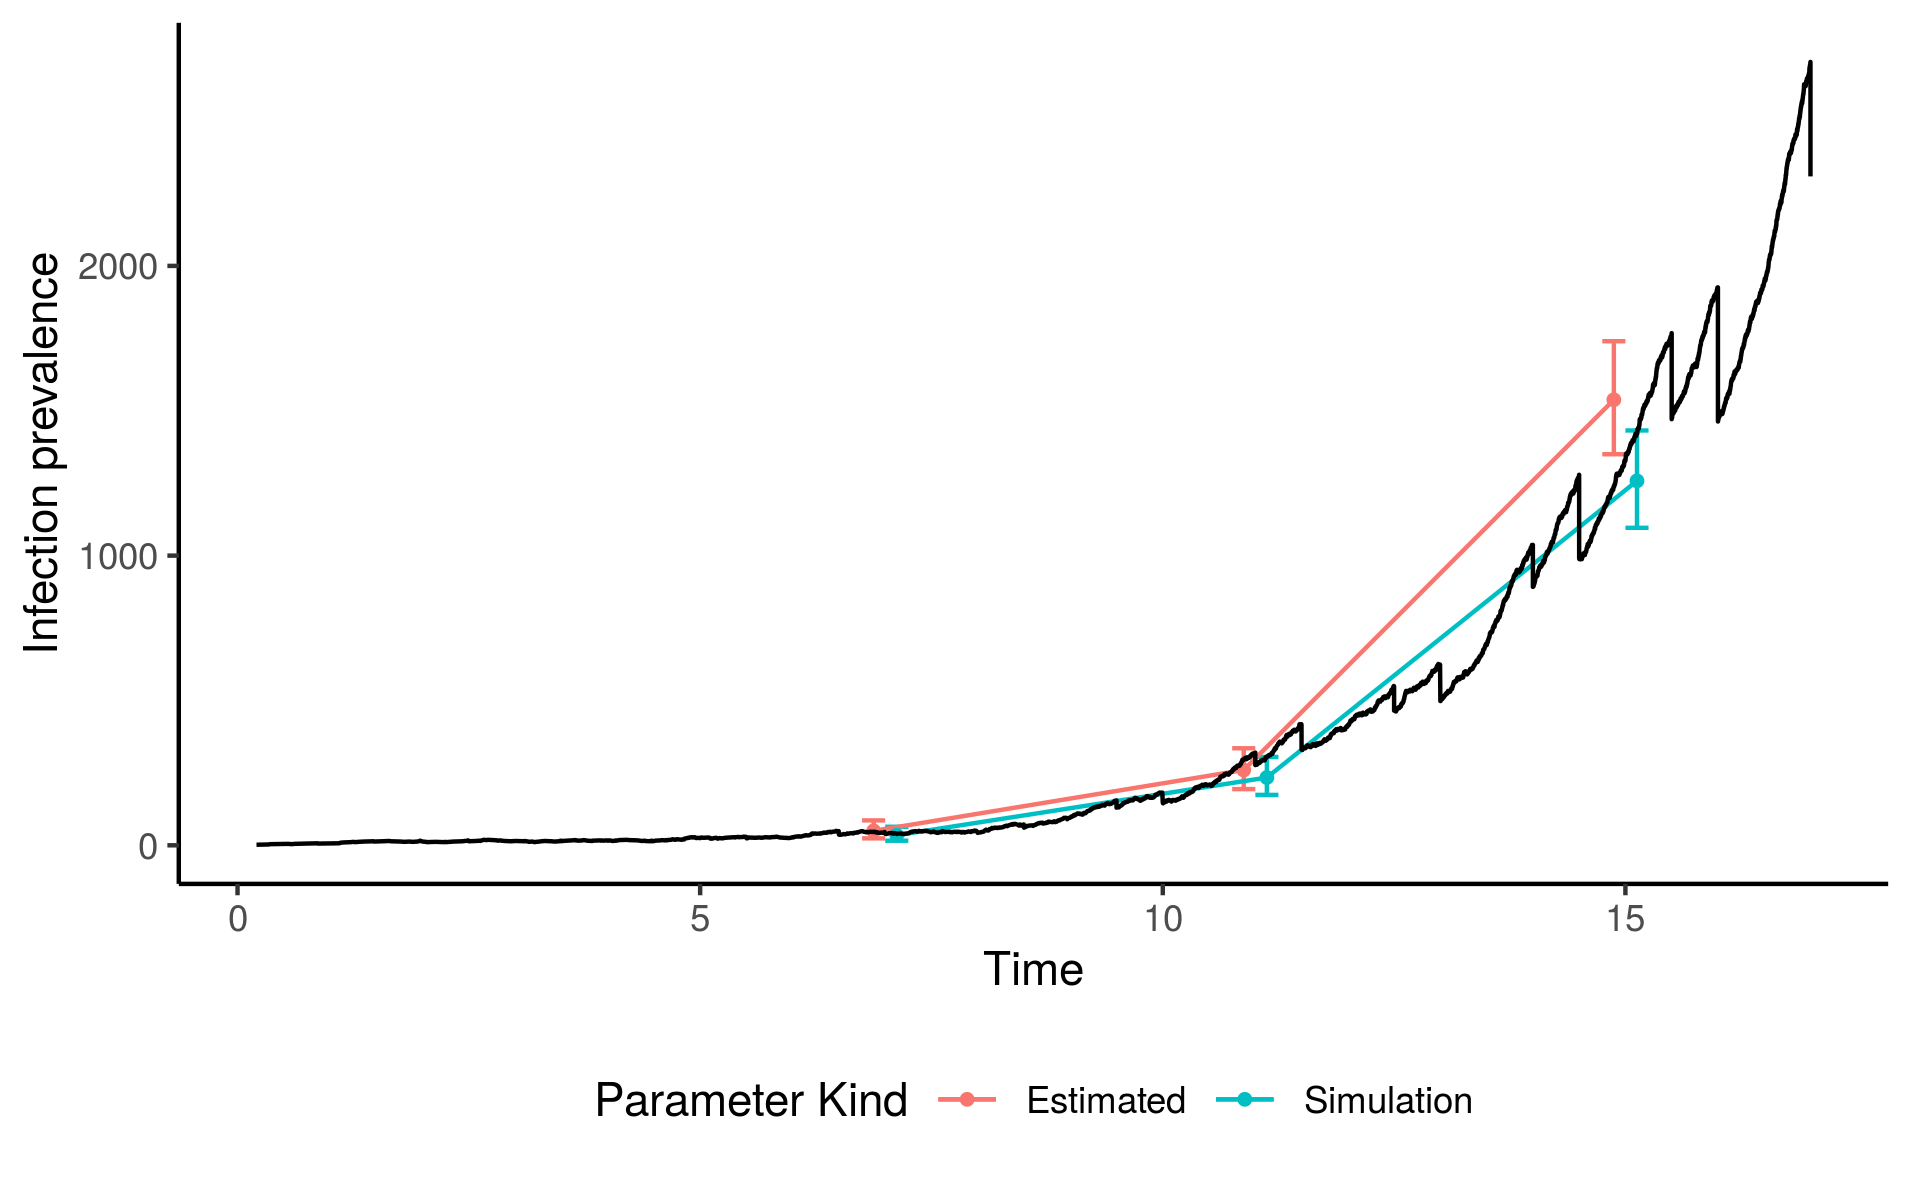
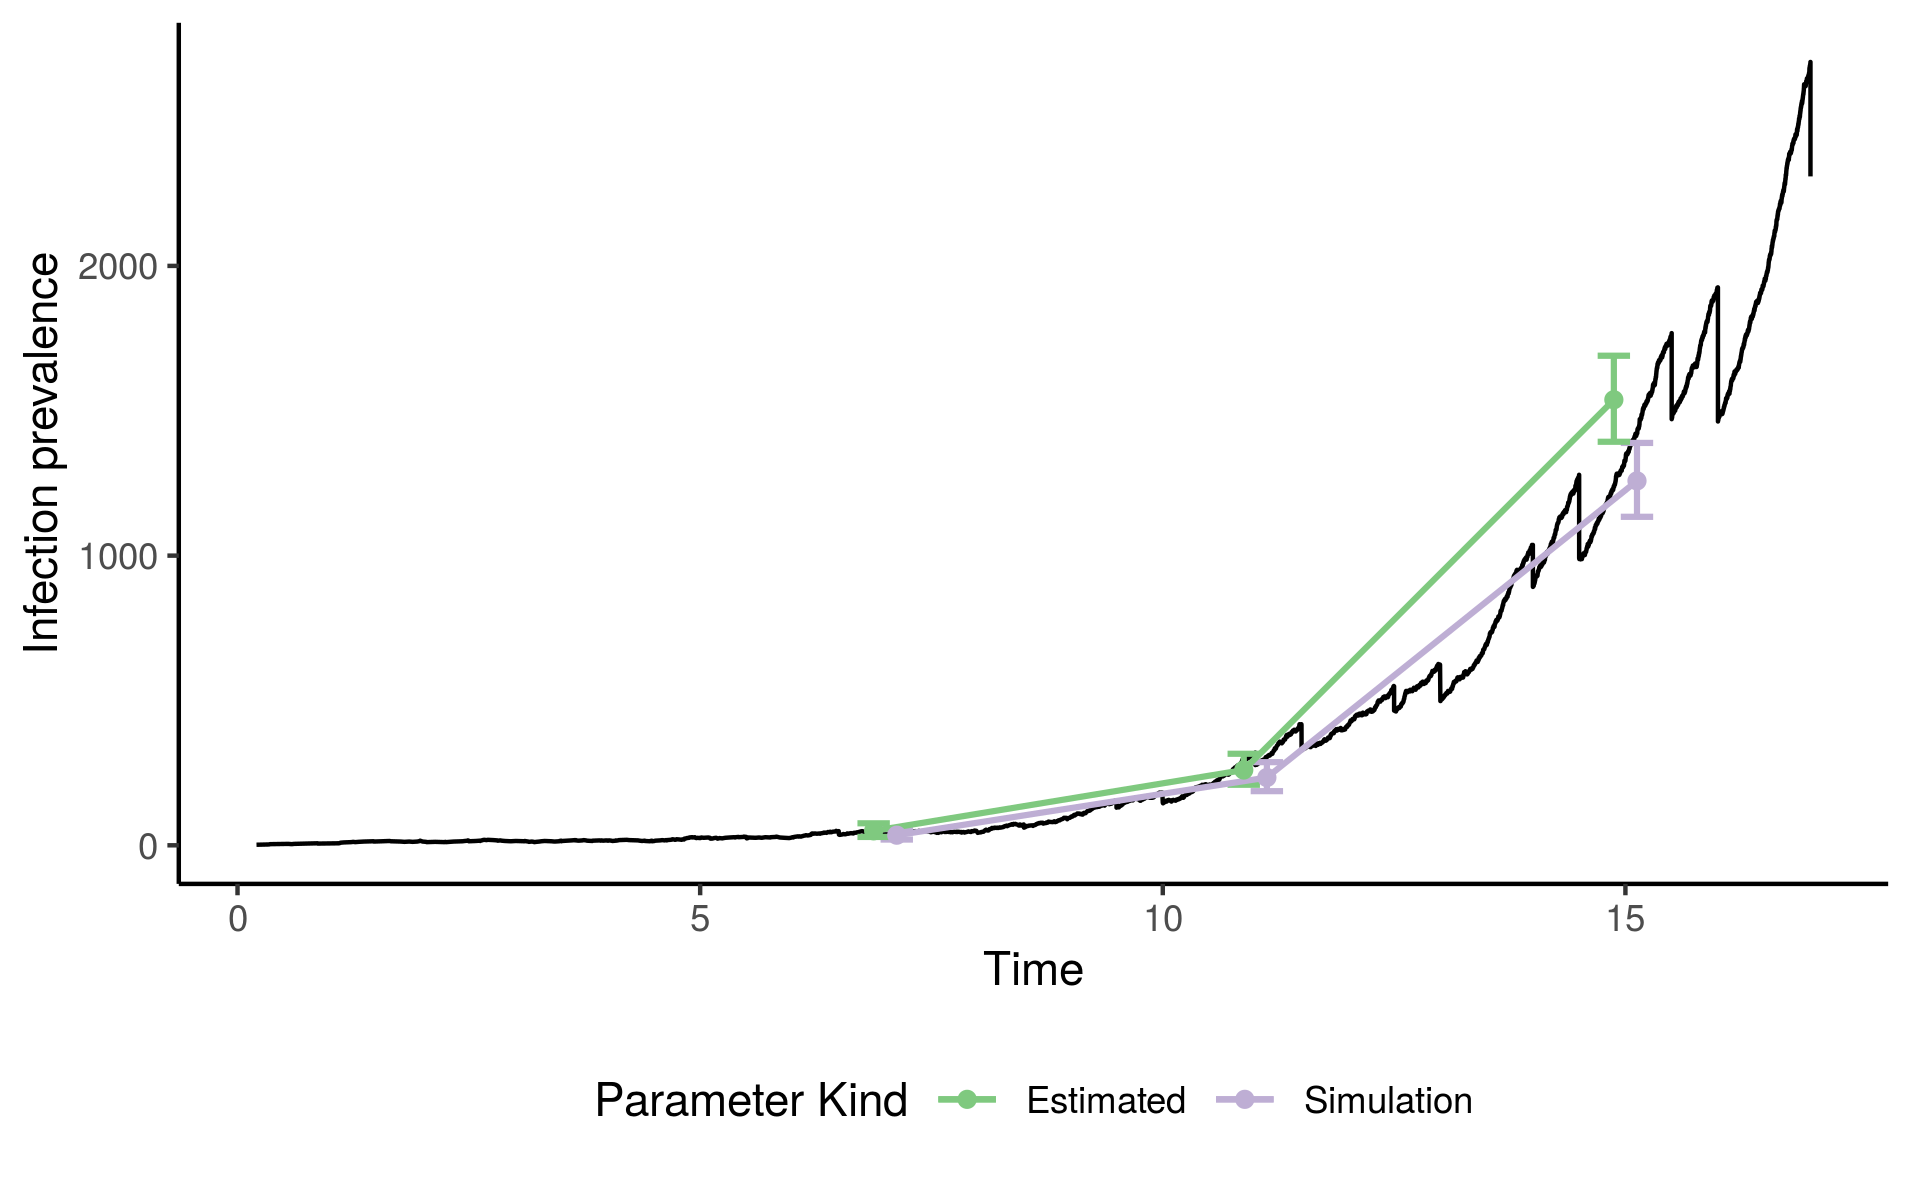
documentation and final figure tweaks e.g., colour adjust

diff --git a/ChangeLog.md b/ChangeLog.md
@@ -2,6 +2,7 @@
 
 ## 0.1.2.9
 
+- Tweak visualisation of the prevalence estimates for clarity.
 - The commits for both `epi-sim` and `epi-types` have been updated.
 - There is now a `Parameters` type rather than just an alias and there are some
   setter functions to help manipulate these.
